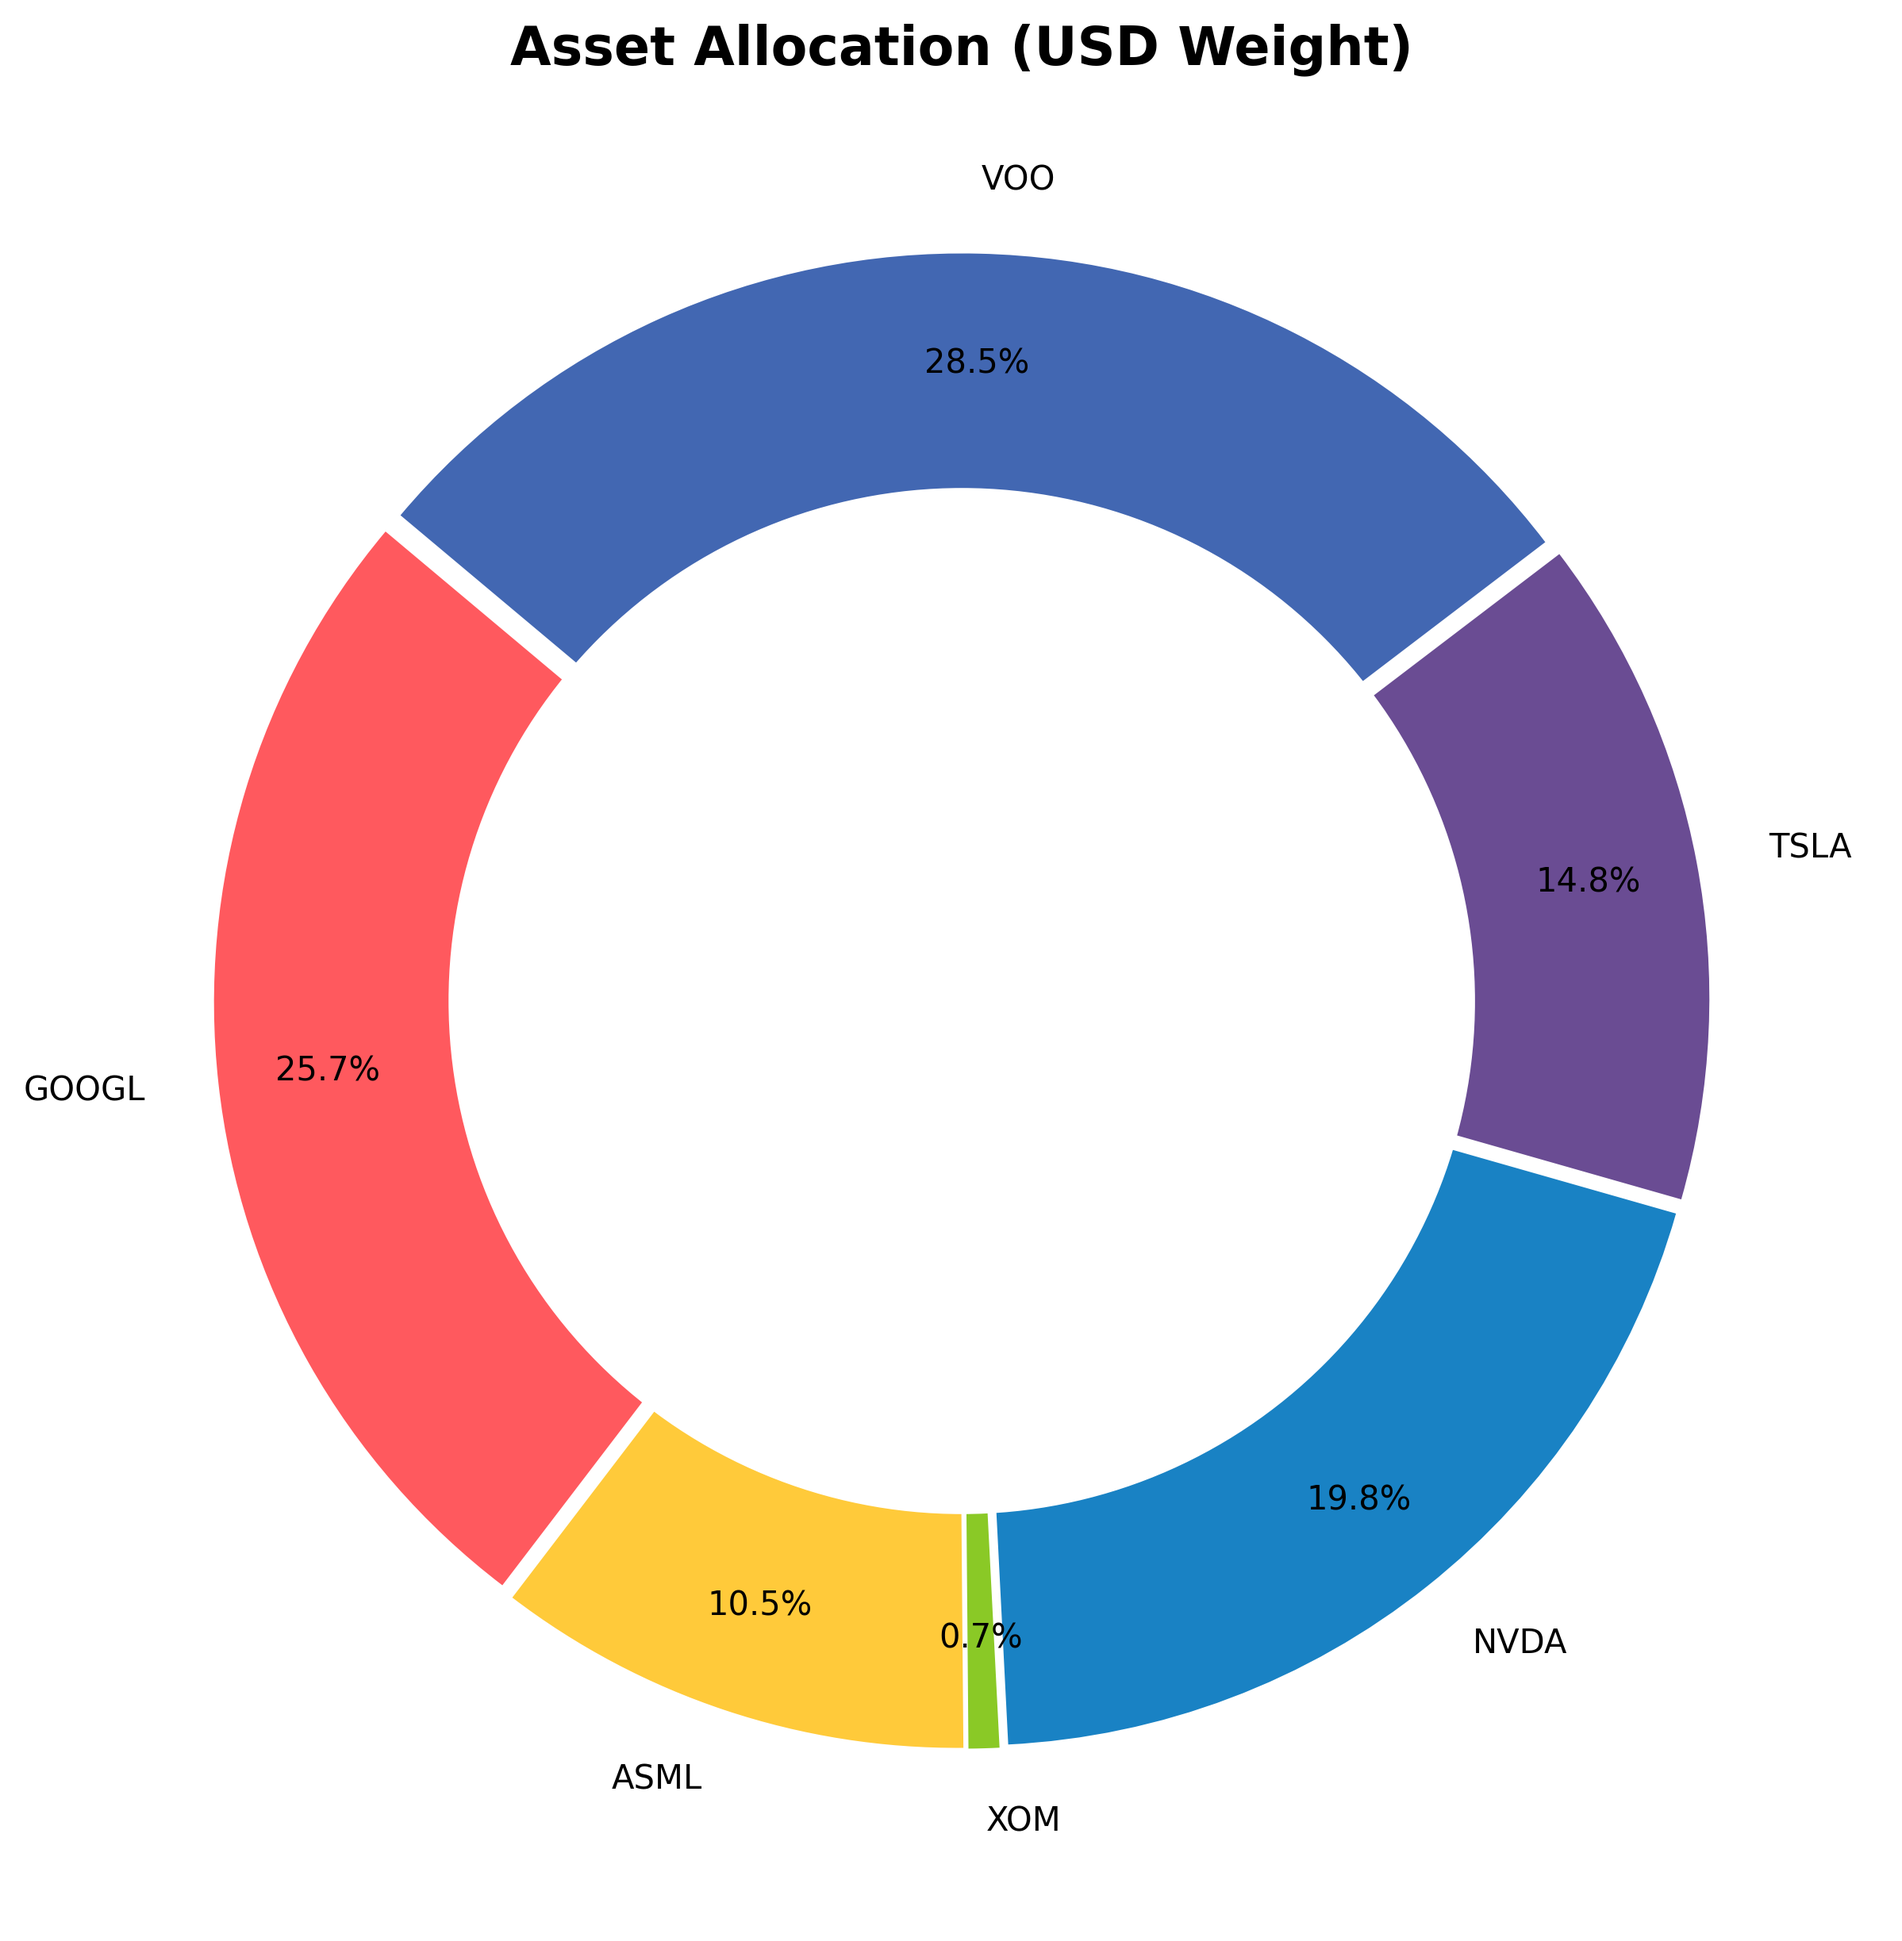
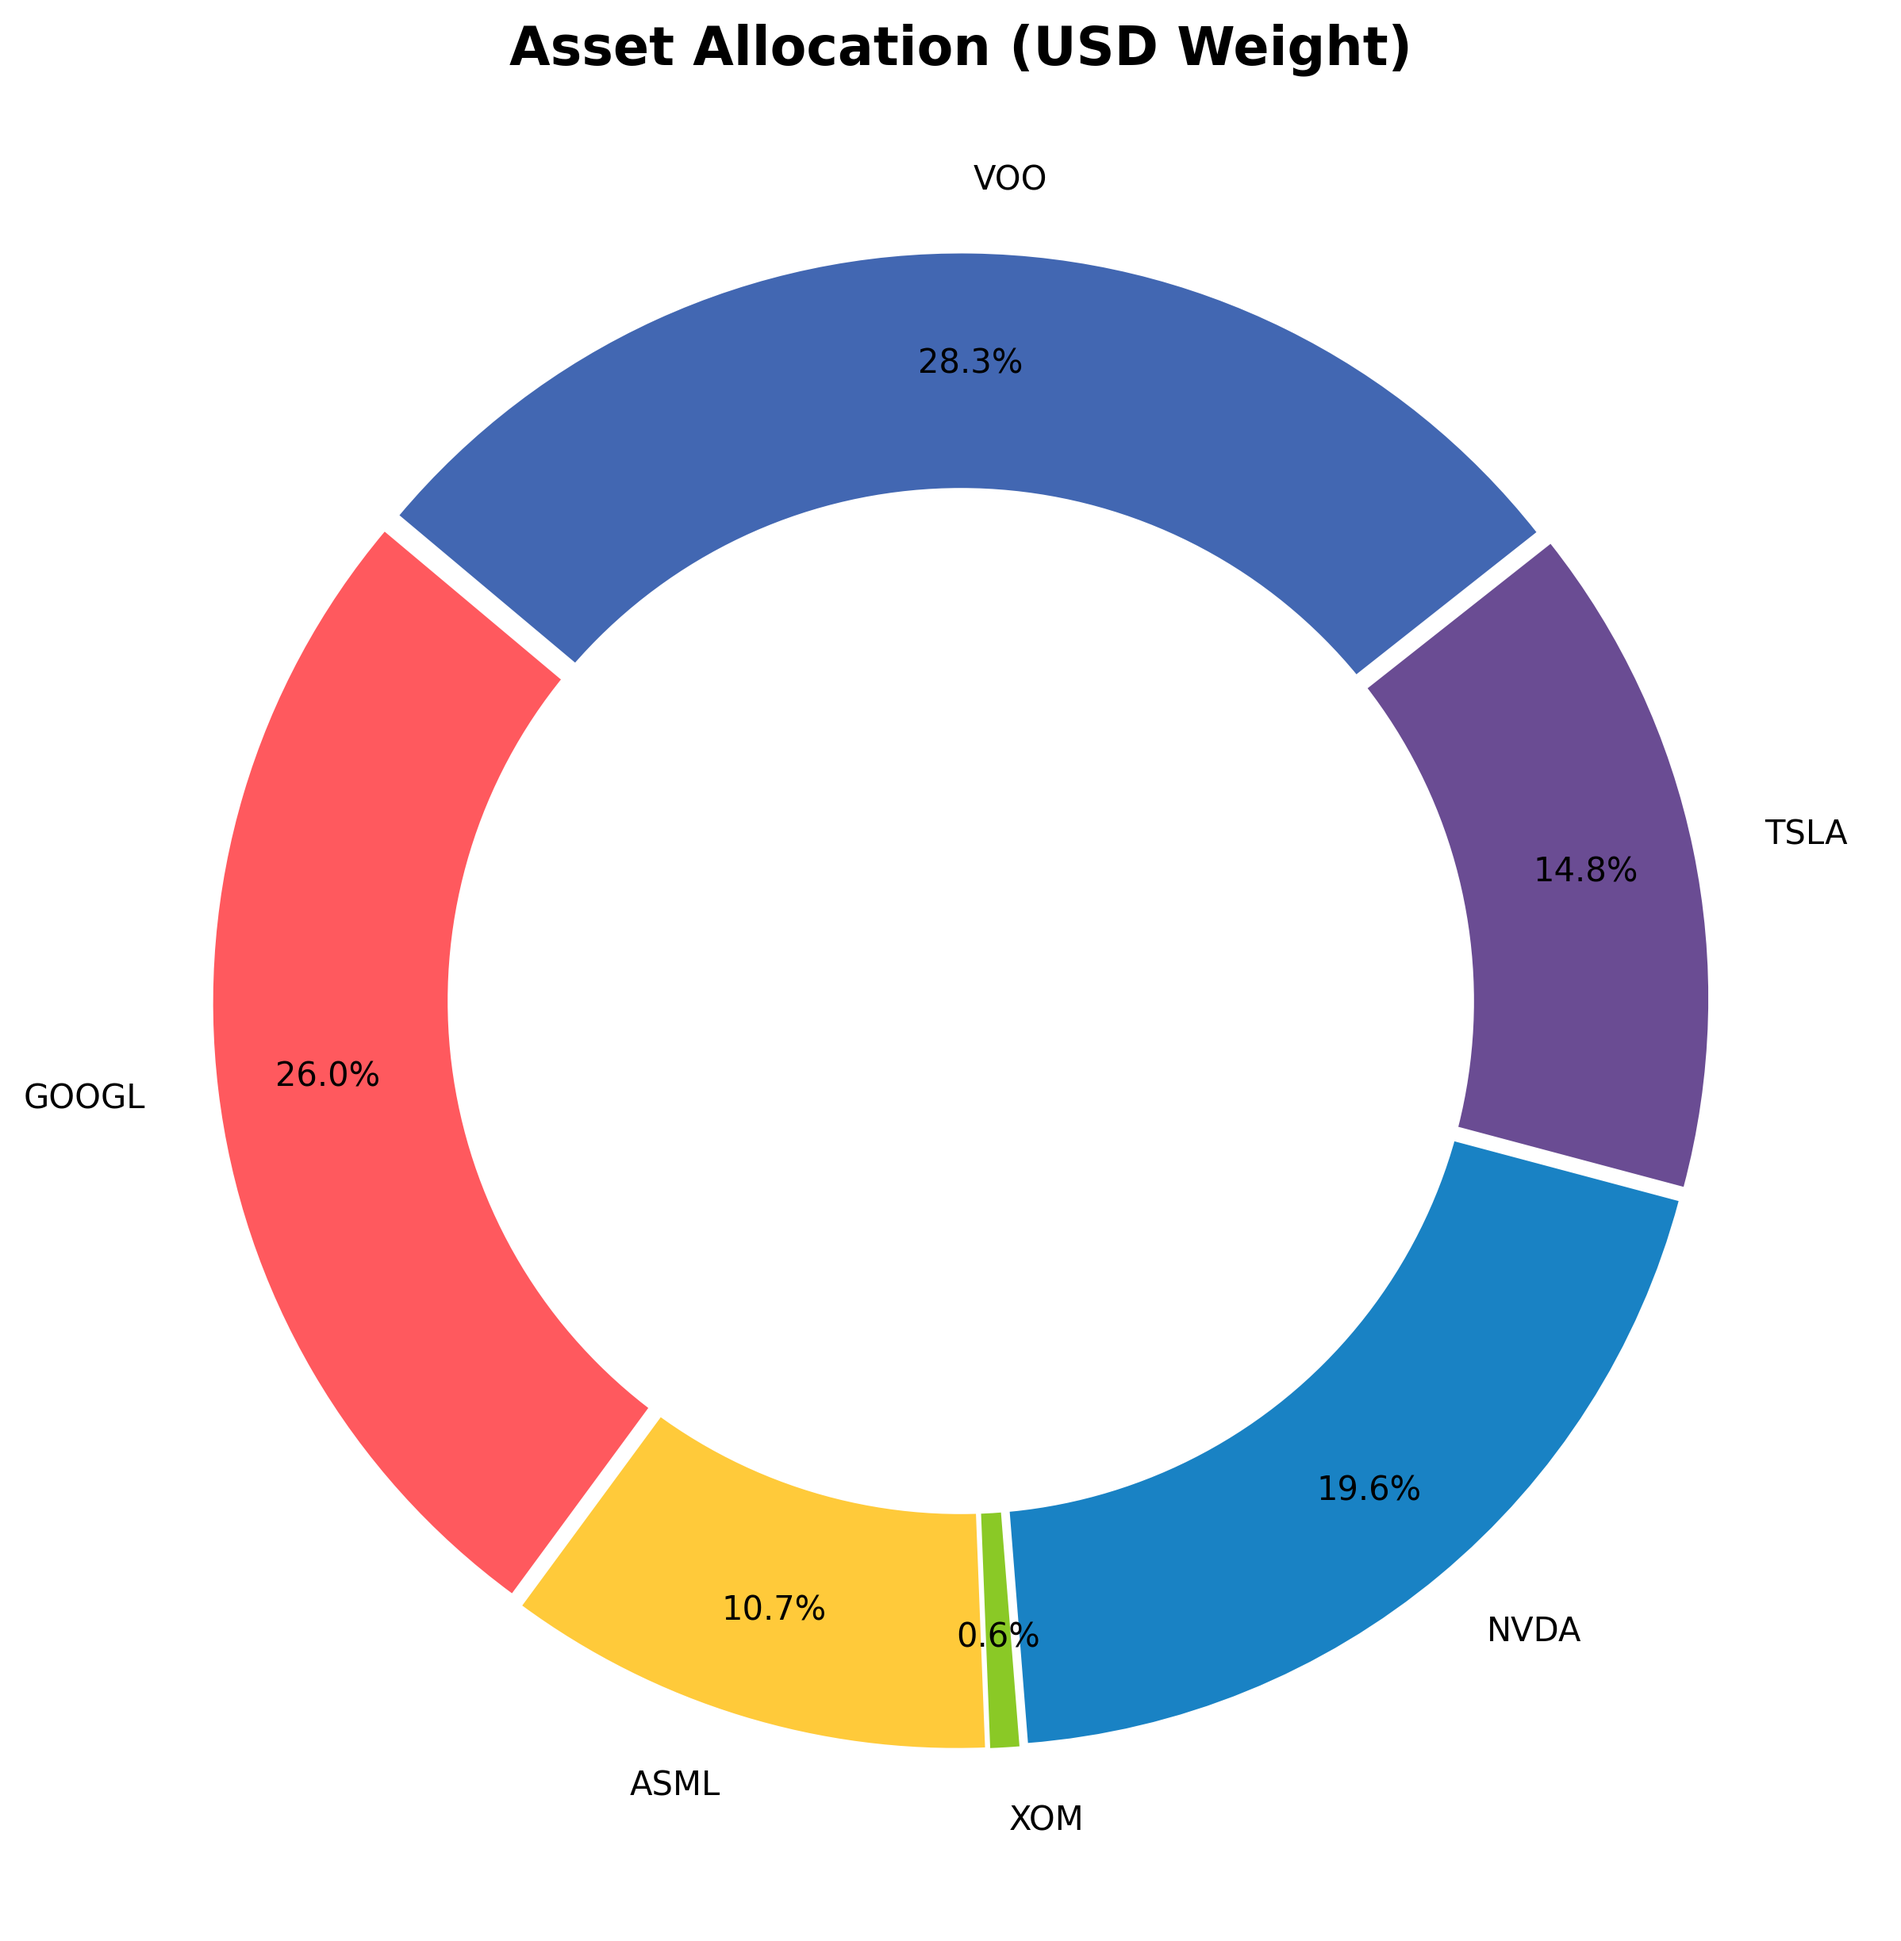
System Run: Analytics & Archive Update [skip ci]

diff --git a/README.md b/README.md
@@ -1,23 +1,23 @@
 # 📊 Portfolio Dashboard | מעקב תיק השקעות
-**Last Update:** 01/04/2026 01:40 | **USD/ILS:** ₪3.140
+**Last Update:** 01/04/2026 17:38 | **USD/ILS:** ₪3.137
 
 ## 💰 Portfolio Summary | סיכום התיק
 | Metric | Value | נתון |
 | :--- | :--- | :--- |
-| **Current Value** | `₪157,875` | **שווי נוכחי** |
-| **Total Invested** | `₪131,866` | **סך השקעה** |
-| **Total Profit/Loss** | `+19.72%` (₪26,010) | **רווח/הפסד כולל** |
-| **Daily Change** | `+4.49%` | **שינוי יומי** |
+| **Current Value** | `₪160,395` | **שווי נוכחי** |
+| **Total Invested** | `₪131,756` | **סך השקעה** |
+| **Total Profit/Loss** | `+21.74%` (₪28,638) | **רווח/הפסד כולל** |
+| **Daily Change** | `+6.24%` | **שינוי יומי** |
 
 ## 📜 Holdings | פירוט החזקות
 | Ticker | Shares | Avg. Cost | Current Price | P&L % | P&L ILS |
 | :--- | :--- | :--- | :--- | :--- | :--- |
-| GOOGL | 45 | $181.15 | $287.57 | 🟢 +58.75% | ₪15,036 |
-| ASML | 4 | $934.51 | $1,321.38 | 🟢 +41.40% | ₪4,859 |
-| XOM | 2 | $126.08 | $169.65 | 🟢 +34.56% | ₪274 |
-| NVDA | 57 | $148.62 | $174.38 | 🟢 +17.33% | ₪4,610 |
-| TSLA | 20 | $436.45 | $371.75 | 🔴 -14.82% | ₪-4,063 |
-| VOO | 24 | $527.38 | $597.64 | 🟢 +13.32% | ₪5,294 |
+| GOOGL | 45 | $181.15 | $295.64 | 🟢 +63.20% | ₪16,162 |
+| ASML | 4 | $934.51 | $1,368.95 | 🟢 +46.49% | ₪5,452 |
+| XOM | 2 | $126.08 | $162.69 | 🟢 +29.04% | ₪230 |
+| NVDA | 57 | $148.62 | $175.80 | 🟢 +18.29% | ₪4,860 |
+| TSLA | 20 | $436.45 | $377.92 | 🔴 -13.41% | ₪-3,672 |
+| VOO | 24 | $527.38 | $601.85 | 🟢 +14.12% | ₪5,607 |
 
 ## 📈 Charts | גרפים
 ![Performance](./data_hub/portfolio_performance.png)
